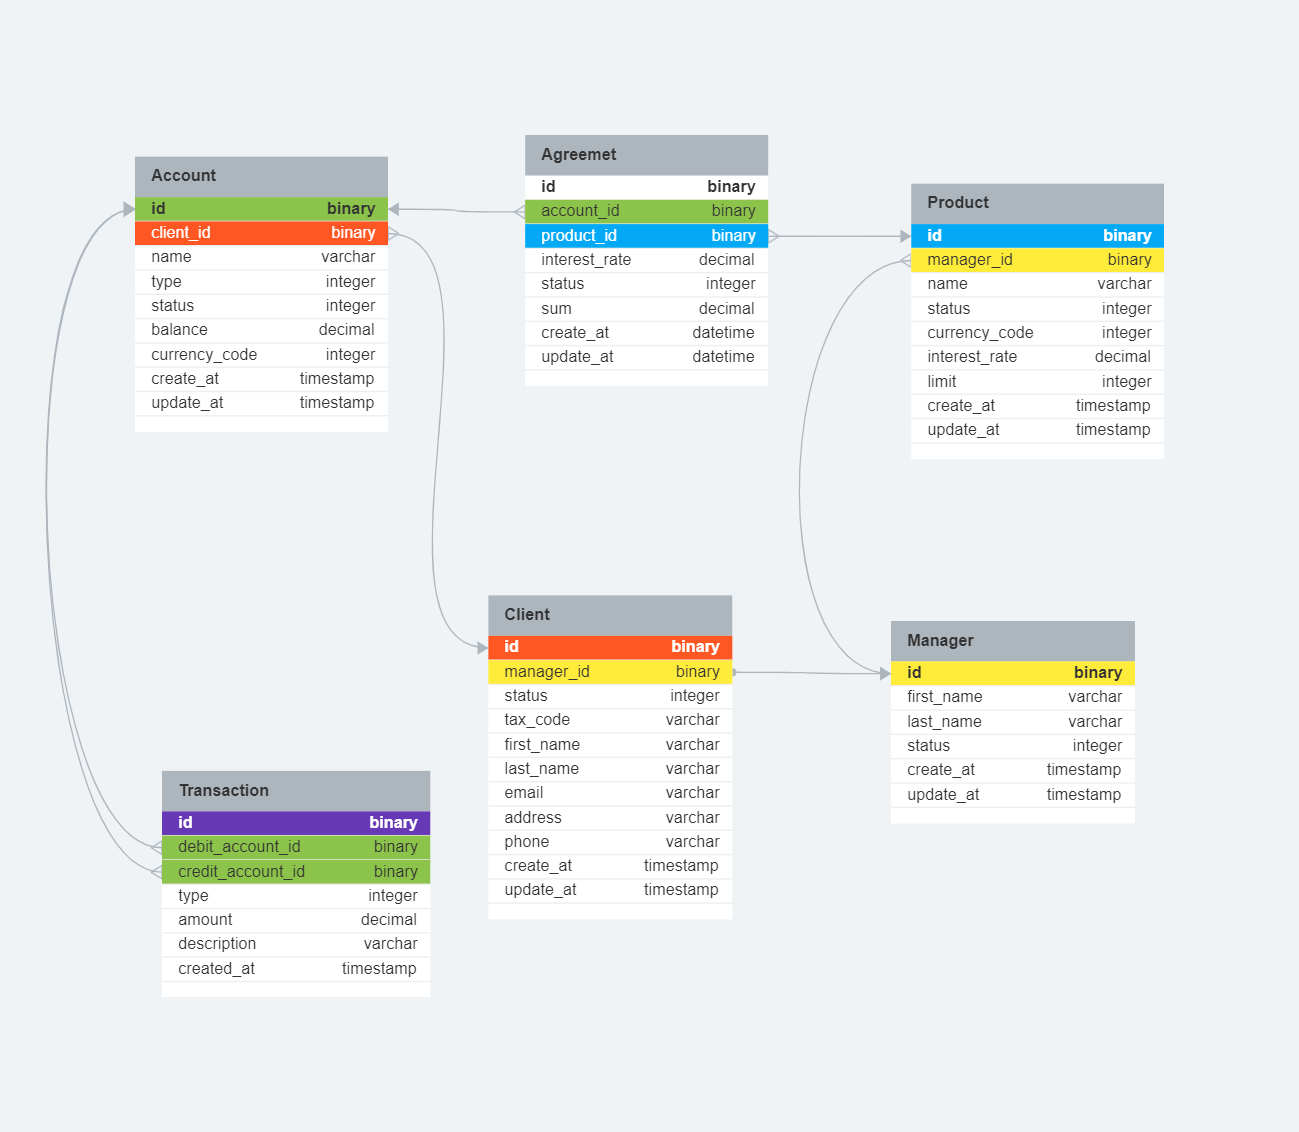
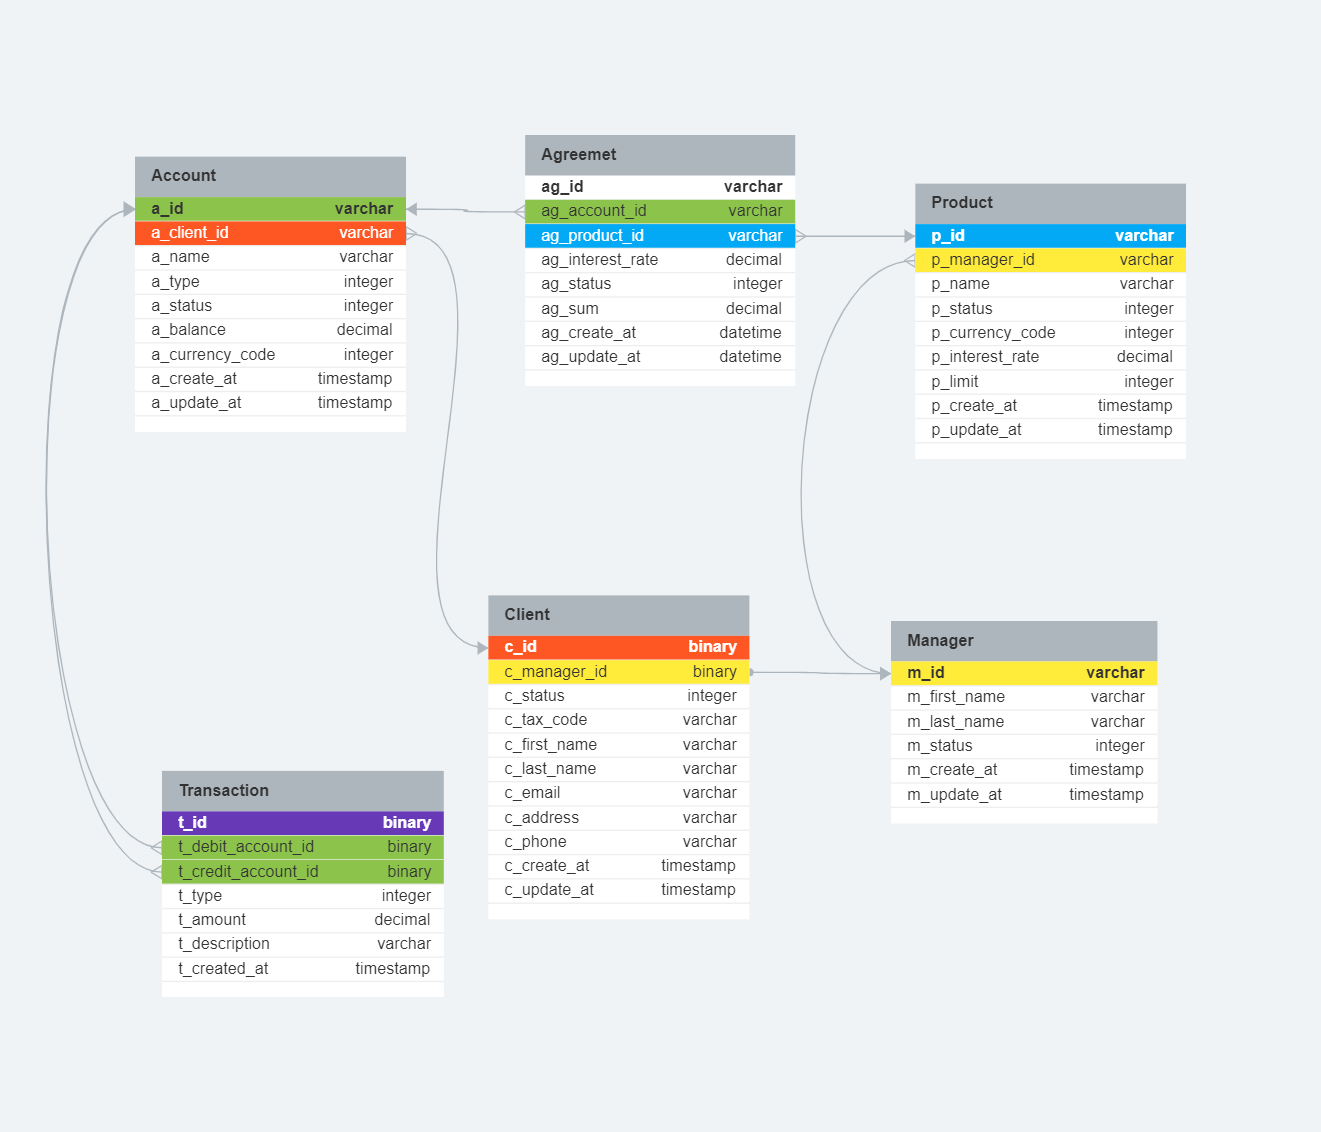
added new schema

diff --git a/src/main/java/com/djourov/bankapp/entity/enums/Account.java b/src/main/java/com/djourov/bankapp/entity/enums/Account.java
@@ -13,6 +13,7 @@ import java.util.UUID;
 @AllArgsConstructor
 @Data
 public class Account {
+
 		private final UUID id = UUID.randomUUID();
 		private String name;
 		private int type;

diff --git a/README.md b/README.md
@@ -14,80 +14,80 @@ ___
 
 | Column name | Type        | Description                                   |
 |-------------|-------------|-----------------------------------------------|
-| id          | binary(16)  | id key of row - unique, not null, primary key | 
-| manager_id  | binary(16)  | manager id                                    |
-| status      | int(1)      | client's status                               |
-| tax_code    | varchar(20) | client's TAX code (external ID)               |
-| first_name  | varchar(50) | client's name                                 |
-| last_name   | varchar(50) | client's surname                              |
-| email       | varchar(60) | client's e-mail                               |                               
-| address     | varchar(80) | client's address                              |
-| phone       | varchar(20) | client's phone                                |                                
-| created_at  | timestamp   | timestamp of row creation                     |
-| updated_at  | timestamp   | timestamp of last update                      |
+| a_id        | varchar(36) | id key of row - unique, not null, primary key |
+| a_manager_id| varchar(36) | manager id foreign key NOT NULL               |
+| a_status    | tinyint(1)  | client's status     NOT NULL                  |
+| a_tax_code  | varchar(20) | client's TAX code (external ID)               |
+| a_first_name| varchar(50) | client's name                                 |
+| a_last_name | varchar(50) | client's surname                              |
+| a_email     | varchar(60) | client's e-mail                               |
+| a_address   | varchar(80) | client's address                              |
+| a_phone     | varchar(20) | client's phone                                |
+| a_created_at| timestamp   | timestamp of row creation     NOT NULL        |
+| a_updated_at| timestamp   | timestamp of last update                      |
 
 
 
 ### Table Account (Bank's accounts table)
 
-| Column name   | Type          | Description                                   |
-|---------------|---------------|-----------------------------------------------|
-| id            | binary(16)    | id key of row - unique, not null, primary key |
-| client_id     | binary(16)    | client id                                     |         
-| name          | varchar(100)  | a name of account                             |                              
-| type          | int(1)        | account type                                  |                                   
-| status        | int(1)        | status of tne account                         |                          
-| balance       | numeric(15,2) | balance of the account in currency            | 
-| currency_code | int(2)        | account currency code                         |                          
-| created_at    | timestamp     | timestamp of row creation                     |
-| updated_at    | timestamp     | timestamp of last update                      |
+| Column name     | Type          | Description                                   |
+|-----------------|---------------|-----------------------------------------------|
+| a_id            | varchar(36)   | id key of row - unique, not null, primary key |
+| a_client_id     | varchar(36)   | client id   foreign key  NOT NULL             |         
+| a_name          | varchar(100)  | a name of account                             |                              
+| a_type          | int(1)        | account type                                  |                                   
+| a_status        | tinyint(1)    | status of tne account                         |                          
+| a_balance       | numeric(15,2) | balance of the account in currency            | 
+| a_currency_code | int(2)        | account currency code                         |                          
+| a_created_at    | timestamp     | timestamp of row creation   NOT NULL          |
+| a_updated_at    | timestamp     | timestamp of last update                      |
 
 ### Table Product ( Sets of Bank's available Products)
-| Column name   | Type           | Description                                                              |
-|---------------|----------------|--------------------------------------------------------------------------|
-| id            | binary(16)     | id key of row - unique, not null, primary key                            |
-| manager_id    | binary(16)     | manager id                                                               |
-| name          | varchar(70)    | product's name                                                           |
-| status        | int(1)         | product's status                                                         |
-| currency_code | int(2)         | currency of product                                                      |
-| interest_rate | numeric(6,4)   | interest rate of product                                                 |
-| limit         | numeric(15,2)  | limit of credit a product ( 0 - no limit, 0 < - limit which can be used) |
-| created_at    | timestamp      | timestamp of row creation                                                |
-| updated_at    | timestamp      | timestamp of last update                                                 |
+| Column name     | Type          | Description                                                              |
+|-----------------|---------------|--------------------------------------------------------------------------|
+| p_id            | varchar(36)   | id key of row - unique, not null, primary key                            |
+| p_manager_id    | varchar(36)   | manager id   foreign key   NOT NULL                                      |
+| p_name          | varchar(70)   | product's name                                                           |
+| p_status        | tinyint(1)    | product's status         NOT NULL                                        |
+| p_currency_code | int(2)        | currency of product                                                      |
+| p_interest_rate | numeric(6,4)  | interest rate of product                                                 |
+| p_limit         | numeric(15,2) | limit of credit a product ( 0 - no limit, 0 < - limit which can be used) |
+| p_created_at    | timestamp     | timestamp of row creation    NOT NULL                                    |
+| p_updated_at    | timestamp     | timestamp of last update                                                 |
 
 ### Table Agreement (Bank's - Client's  Agreement table)
 
-| Column name   | Type          | Description                                   |
-|---------------|---------------|-----------------------------------------------|
-| id            | binary(16)    | id key of row - unique, not null, primary key |
-| account_id    | binary(16)    | client's account                              | 
-| product_id    | binary(16)    | product id (table product)                    | 
-| interest_rate | numeric(6,4)	 | current interest rate of agreement            | 
-| status        | int           | agreement's status                            | 
-| sum           | numeric(15,2) | amount of agreement                           | 
-| created_at    | timestamp     | timestamp of row creation                     | 
-| updated_at    | timestamp     | timestamp of last update                      | 
+| Column name       | Type          | Description                                     |
+|-------------------|---------------|-------------------------------------------------|
+| ag_id             | varchar(36)   | id key of row - unique, not null, primary key   |
+| ag_account_id     | varchar(36)   | client's account  foreign key NOT NULL          | 
+| ag_product_id     | varchar(36)   | product id (table product) foreign key NOT NULL | 
+| ag_interest_rate  | numeric(6,4)	 | current interest rate of agreement              | 
+| ag_status         | tinyint(1)    | agreement's status                              | 
+| ag_sum            | numeric(15,2) | amount of agreement                             | 
+| ag_created_at     | timestamp     | timestamp of row creation  NOT NULL             | 
+| ag_updated_at     | timestamp     | timestamp of last update                        | 
 
  ### Table Transaction (Bank's Product table) 
 
-| Column name        | Type          | Description                                   |
-|--------------------|---------------|-----------------------------------------------|
-| 	id                | binary(16)    | id key of row - unique, not null, primary key | 
-| 	debit_account_id  | binary(16)    | transaction's debit account                   | 
-| 	credit_account_id | binary(16)    | transaction's credit account                  | 
-| 	type              | int(1)        | transaction type                              | 
-| 	amount            | numeric(12,2) | transaction amount in the account currency    | 
-| 	description       | varchar(255)  | description of transaction                    | 
-| 	created_at        | timestamp     | timestamp of row creation                     | 
+| Column name          | Type          | Description                                       |
+|----------------------|---------------|---------------------------------------------------|
+| 	t_id                | varchar(36)   | id key of row - unique, not null, primary key     | 
+| 	t_debit_account_id  | varchar(36)   | transaction's debit account foreign key NOT NULL  | 
+| 	t_credit_account_id | varchar(36)   | transaction's credit account foreign key NOT NULL | 
+| 	t_type              | int(1)        | transaction type                                  | 
+| 	t_amount            | numeric(12,2) | transaction amount in the account currency        | 
+| 	t_description       | varchar(255)  | description of transaction                        | 
+| 	t_created_at        | timestamp     | timestamp of row creation       NOT NULL          | 
 
  ### Table Manager (Bank's managers )
 
-| Column name  | Type          | Description                                   |
-|--------------|---------------|-----------------------------------------------|
-| 	id          | binary(16)    | id key of row - unique, not null, primary key | 
-| 	first_name  | varchar(50)   | manager's name                                | 
-| 	last_name   | varchar(50)   | manager's surname                             | 
-| 	status      | int           | manager's status                              | 
-| 	description | varchar(255)  | description of transaction                    | 
-| 	created_at  | timestamp     | timestamp of row creation                     |
-|  updated_at  | timestamp     | timestamp of last update                      | 
+| Column name    | Type          | Description                                   |
+|----------------|---------------|-----------------------------------------------|
+| 	m_id          | varchar(36)   | id key of row - unique, not null, primary key | 
+| 	m_first_name  | varchar(50)   | manager's name                                | 
+| 	m_last_name   | varchar(50)   | manager's surname                             | 
+| 	m_status      | tinyint(1)    | manager's status                              | 
+| 	m_description | varchar(255)  | description of transaction                    | 
+| 	m_created_at  | timestamp     | timestamp of row creation   NOT NULL          |
+| m_updated_at   | timestamp     | timestamp of last update                      | 
